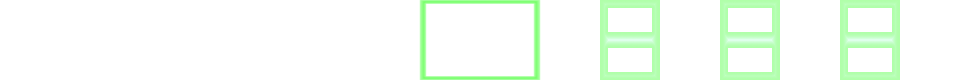
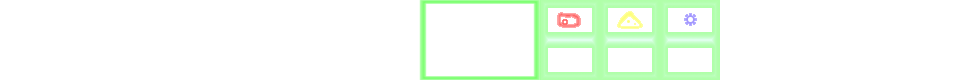
Explain towers.

Changed region(s): [[0.5625, 0.0, 0.8125, 1.0], [0.875, 0.0, 0.9375, 1.0]]

diff --git a/src/ten_seconds/ui/mod.rs b/src/ten_seconds/ui/mod.rs
@@ -60,7 +60,7 @@ pub fn init_ui(mut commands: Commands, windows: Res<Windows>, sprites: Res<Sprit
             text: Text::from_section(
                 "10",
                 TextStyle {
-                    color: Color::rgb(43. / 256., 100. / 256., 38. / 256.),
+                    color: Color::rgb(0.43, 1., 0.38),
                     font_size: 80.,
                     font: sprites.countdown_font.clone(),
                 },
@@ -99,7 +99,7 @@ pub fn init_ui(mut commands: Commands, windows: Res<Windows>, sprites: Res<Sprit
             text: Text::from_section(
                 "0",
                 TextStyle {
-                    color: Color::rgb(43. / 256., 100. / 256., 38. / 256.),
+                    color: Color::rgb(0.43, 1., 0.38),
                     font_size: 32.,
                     font: sprites.countdown_font.clone(),
                 },
@@ -118,8 +118,8 @@ pub fn init_ui(mut commands: Commands, windows: Res<Windows>, sprites: Res<Sprit
                 position_type: PositionType::Absolute,
                 justify_content: JustifyContent::Center,
                 position: UiRect::new(
-                    Val::Px(600.),
-                    Val::Px(300.),
+                    Val::Px(540.),
+                    Val::Px(360.),
                     Val::Px(0.),
                     Val::Px(height - 76.),
                 ),
@@ -138,7 +138,7 @@ pub fn init_ui(mut commands: Commands, windows: Res<Windows>, sprites: Res<Sprit
             text: Text::from_section(
                 "0",
                 TextStyle {
-                    color: Color::rgb(43. / 256., 100. / 256., 38. / 256.),
+                    color: Color::rgb(0.43, 1., 0.38),
                     font_size: 32.,
                     font: sprites.countdown_font.clone(),
                 },
@@ -157,8 +157,8 @@ pub fn init_ui(mut commands: Commands, windows: Res<Windows>, sprites: Res<Sprit
                 position_type: PositionType::Absolute,
                 justify_content: JustifyContent::Center,
                 position: UiRect::new(
-                    Val::Px(720.),
-                    Val::Px(180.),
+                    Val::Px(600.),
+                    Val::Px(300.),
                     Val::Px(0.),
                     Val::Px(height - 76.),
                 ),
@@ -177,7 +177,7 @@ pub fn init_ui(mut commands: Commands, windows: Res<Windows>, sprites: Res<Sprit
             text: Text::from_section(
                 "0",
                 TextStyle {
-                    color: Color::rgb(43. / 256., 100. / 256., 38. / 256.),
+                    color: Color::rgb(0.43, 1., 0.38),
                     font_size: 32.,
                     font: sprites.countdown_font.clone(),
                 },
@@ -196,8 +196,8 @@ pub fn init_ui(mut commands: Commands, windows: Res<Windows>, sprites: Res<Sprit
                 position_type: PositionType::Absolute,
                 justify_content: JustifyContent::Center,
                 position: UiRect::new(
-                    Val::Px(840.),
-                    Val::Px(60.),
+                    Val::Px(660.),
+                    Val::Px(240.),
                     Val::Px(0.),
                     Val::Px(height - 76.),
                 ),
@@ -209,6 +209,129 @@ pub fn init_ui(mut commands: Commands, windows: Res<Windows>, sprites: Res<Sprit
         .insert(Name::new("TechBox"))
         .insert(InGameOnly)
         .add_child(minerals);
+    // INFO
+    let mut transform = Transform::default();
+    transform.translation = Vec3::new(width - 240. + 16., height - 16., 0.);
+    commands
+        .spawn_bundle(SpriteSheetBundle {
+            transform,
+            texture_atlas: sprites.towers.clone(),
+            sprite: TextureAtlasSprite {
+                color: Color::rgb(0.43, 1., 0.38),
+                ..TextureAtlasSprite::new(TowerType::Attack.get_sprite_index())
+            },
+            ..Default::default()
+        })
+        .insert(Name::new("AttackHelper"));
+    let mut transform = Transform::default();
+    transform.translation = Vec3::new(width - 240. + 32. + 16., height - 16., 0.);
+    commands
+        .spawn_bundle(SpriteSheetBundle {
+            transform,
+            texture_atlas: sprites.towers.clone(),
+            sprite: TextureAtlasSprite::new(TowerType::Silo.get_sprite_index()),
+            ..Default::default()
+        })
+        .insert(Name::new("SiloHelper"));
+    let mut transform = Transform::default();
+    transform.translation = Vec3::new(width - 240. + 64. + 16., height - 16., 0.);
+    commands
+        .spawn_bundle(SpriteSheetBundle {
+            transform,
+            texture_atlas: sprites.towers.clone(),
+            sprite: TextureAtlasSprite::new(TowerType::Triple.get_sprite_index()),
+            ..Default::default()
+        })
+        .insert(Name::new("TripleHelper"));
+    let mut transform = Transform::default();
+    transform.translation = Vec3::new(width - 240. + 96. + 16., height - 16., 0.);
+    commands
+        .spawn_bundle(SpriteSheetBundle {
+            transform,
+            texture_atlas: sprites.towers.clone(),
+            sprite: TextureAtlasSprite::new(TowerType::BigBomb.get_sprite_index()),
+            ..Default::default()
+        })
+        .insert(Name::new("BigBombHelper"));
+    let info = commands
+        .spawn_bundle(TextBundle {
+            text: Text::from_sections(vec![
+                TextSection {
+                    value: "Num keys switch towers.\nAmmo: 5 - Costs: ".to_string(),
+                    style: TextStyle {
+                        color: Color::WHITE,
+                        font_size: 24.,
+                        font: sprites.countdown_font.clone(),
+                    },
+                },
+                TextSection {
+                    value: "2".to_string(),
+                    style: TextStyle {
+                        color: Color::rgb(1., 0.384, 0.384),
+                        font_size: 24.,
+                        font: sprites.countdown_font.clone(),
+                    },
+                },
+                TextSection {
+                    value: "/".to_string(),
+                    style: TextStyle {
+                        color: Color::WHITE,
+                        font_size: 24.,
+                        font: sprites.countdown_font.clone(),
+                    },
+                },
+                TextSection {
+                    value: "1".to_string(),
+                    style: TextStyle {
+                        color: Color::rgb(1., 1., 0.477),
+                        font_size: 24.,
+                        font: sprites.countdown_font.clone(),
+                    },
+                },
+                TextSection {
+                    value: "/".to_string(),
+                    style: TextStyle {
+                        color: Color::WHITE,
+                        font_size: 24.,
+                        font: sprites.countdown_font.clone(),
+                    },
+                },
+                TextSection {
+                    value: "0".to_string(),
+                    style: TextStyle {
+                        color: Color::rgb(0.635, 0.592, 1.),
+                        font_size: 24.,
+                        font: sprites.countdown_font.clone(),
+                    },
+                },
+            ]),
+            style: Style {
+                position_type: PositionType::Absolute,
+                ..Default::default()
+            },
+            ..Default::default()
+        })
+        .insert(Name::new("Info"))
+        .id();
+    commands
+        .spawn_bundle(NodeBundle {
+            style: Style {
+                position_type: PositionType::Absolute,
+                justify_content: JustifyContent::Center,
+                position: UiRect::new(
+                    Val::Px(720.),
+                    Val::Px(0.),
+                    Val::Px(0.),
+                    Val::Px(height - 76.),
+                ),
+                ..Default::default()
+            },
+            color: UiColor(Color::NONE),
+            ..Default::default()
+        })
+        .insert(Name::new("InfoBox"))
+        .insert(InGameOnly)
+        .add_child(info);
 }
 
 pub fn init_game_over(mut commands: Commands, wave_status: Res<WaveStatus>, sprites: Res<Sprites>) {
@@ -218,7 +341,7 @@ pub fn init_game_over(mut commands: Commands, wave_status: Res<WaveStatus>, spri
                 TextSection::new(
                     format!("You made it to wave {}!\n", wave_status.wave_id),
                     TextStyle {
-                        color: Color::rgb(43. / 256., 100. / 256., 38. / 256.),
+                        color: Color::rgb(0.43, 1., 0.38),
                         font_size: 32.,
                         font: sprites.countdown_font.clone(),
                     },
@@ -226,7 +349,7 @@ pub fn init_game_over(mut commands: Commands, wave_status: Res<WaveStatus>, spri
                 TextSection::new(
                     format!("Press any key to play again."),
                     TextStyle {
-                        color: Color::rgb(43. / 256., 100. / 256., 38. / 256.),
+                        color: Color::rgb(0.43, 1., 0.38),
                         font_size: 32.,
                         font: sprites.countdown_font.clone(),
                     },

diff --git a/src/ten_seconds/towers/management.rs b/src/ten_seconds/towers/management.rs
@@ -2,7 +2,64 @@ use crate::{prelude::*, ten_seconds::field::FieldLocationContents};
 
 use super::spawn_tower;
 
-pub fn switch_tower_types(mut wave_status: ResMut<WaveStatus>, input: Res<Input<KeyCode>>) {
+fn set_helper_text(tower_type: TowerType, mut helper_text_query: Query<(&mut Text, &Name)>) {
+    let flavor = match tower_type {
+        TowerType::Attack => "Simple gun tower.",
+        TowerType::Silo => "Resupplies neighbors.",
+        TowerType::Burst => "Fires in four directions.",
+        TowerType::Triple => "Fires 3-shot bursts.",
+        TowerType::BigBomb => "Fires really big shots.",
+    };
+    let value = format!(
+        "{}\nAmmo: {} - Costs: ",
+        flavor,
+        tower_type.get_cooldowns().ammo_left
+    );
+    for (mut text, name) in helper_text_query.iter_mut() {
+        if name.eq_ignore_ascii_case("Info") {
+            text.sections[0].value = value;
+            text.sections[1].value = format!("{}", tower_type.get_mineral_cost());
+            text.sections[3].value = format!("{}", tower_type.get_dust_cost());
+            text.sections[5].value = format!("{}", tower_type.get_tech_cost());
+            return;
+        }
+    }
+}
+
+fn highlight_icon(
+    old_tower_type: TowerType,
+    tower_type: TowerType,
+    mut icon_query: Query<(&mut TextureAtlasSprite, &Name)>,
+) {
+    let tower_helper_name = get_helper_name(tower_type);
+    let old_tower_helper_name = get_helper_name(old_tower_type);
+    for (mut sprite, name) in icon_query.iter_mut() {
+        if name.eq_ignore_ascii_case(tower_helper_name) {
+            sprite.color = Color::rgb(0.435, 1., 0.384);
+        } else if name.eq_ignore_ascii_case(old_tower_helper_name) {
+            sprite.color = Color::WHITE;
+        }
+    }
+}
+
+fn get_helper_name(tower_type: TowerType) -> &'static str {
+    let tower_helper_name = match tower_type {
+        TowerType::Attack => "AttackHelper",
+        TowerType::Silo => "SiloHelper",
+        TowerType::Burst => "BurstHelper",
+        TowerType::Triple => "TripleHelper",
+        TowerType::BigBomb => "BigBombHelper",
+    };
+    tower_helper_name
+}
+
+pub fn switch_tower_types(
+    mut wave_status: ResMut<WaveStatus>,
+    input: Res<Input<KeyCode>>,
+    helper_text_query: Query<(&mut Text, &Name)>,
+    icon_query: Query<(&mut TextureAtlasSprite, &Name)>,
+) {
+    let old_tower_type = wave_status.tower_type;
     if input.just_pressed(KeyCode::Key1) {
         wave_status.tower_type = TowerType::Attack;
     } else if input.just_pressed(KeyCode::Key2) {
@@ -11,7 +68,11 @@ pub fn switch_tower_types(mut wave_status: ResMut<WaveStatus>, input: Res<Input<
         wave_status.tower_type = TowerType::Triple;
     } else if input.just_pressed(KeyCode::Key4) {
         wave_status.tower_type = TowerType::BigBomb;
+    } else {
+        return;
     }
+    set_helper_text(wave_status.tower_type, helper_text_query);
+    highlight_icon(old_tower_type, wave_status.tower_type, icon_query);
 }
 
 pub fn manage_towers(

diff --git a/src/ten_seconds/enemies/waves.rs b/src/ten_seconds/enemies/waves.rs
@@ -45,7 +45,11 @@ impl WaveStatus {
     }
 
     fn get_sting(&self) -> &'static str {
-        match self.wave_id {
+        self.get_sting_for(self.wave_id)
+    }
+
+    fn get_sting_for(&self, wave_id: i32) -> &'static str {
+        match wave_id {
             1 | 2 => "stings/ChoirSaprano.ogg",
             3 => "stings/ChoirSapranoEb.ogg",
 
@@ -73,13 +77,10 @@ impl WaveStatus {
             25 | 26 => "stings/SquareWave.ogg",
             27 => "stings/SquareWaveEb.ogg",
 
-            id => {
-                if id % 3 == 0 {
-                    "stings/TinyRobotEb.ogg"
-                } else {
-                    "stings/TinyRobot.ogg"
-                }
-            }
+            28 | 29 => "stings/SquareWave.ogg",
+            30 => "stings/SquareWaveEb.ogg",
+
+            id => self.get_sting_for(id - 30),
         }
     }
 

diff --git a/src/ten_seconds/towers/mod.rs b/src/ten_seconds/towers/mod.rs
@@ -79,7 +79,7 @@ impl TowerType {
                     name: "Bomb".to_string(),
                     bullet_type: BulletType::Basic {
                         sprite_index: 1,
-                        damage: 5,
+                        damage: 10,
                     },
                     fired: false,
                     speed: 256.,
@@ -104,7 +104,7 @@ impl TowerType {
             Self::Attack | Self::Burst => 5,
             Self::Silo => 10,
             Self::Triple => 9,
-            Self::BigBomb => 3,
+            Self::BigBomb => 1,
         };
         TowerCooldowns {
             time_since_shot: 0.,
@@ -113,7 +113,7 @@ impl TowerType {
         }
     }
 
-    fn get_sprite_index(&self) -> usize {
+    pub fn get_sprite_index(&self) -> usize {
         match self {
             Self::Attack => 0,
             Self::Silo => 8,

diff --git a/src/ten_seconds/towers/ai.rs b/src/ten_seconds/towers/ai.rs
@@ -66,14 +66,7 @@ pub fn think_for_towers(
                 neighbor_towers: get_neighbor_towers(&field, tile),
             };
             let mut new_impulses = TowerImpulses::default();
-            let mut audit = BehaviorTreeAudit::default();
-            let result = behavior_tree.resume_with(
-                &model,
-                &mut new_impulses,
-                &mut None,
-                &mut Some(&mut audit),
-            );
-            println!("{:?}: {:?}", result, audit);
+            behavior_tree.resume_with(&model, &mut new_impulses, &mut None, &mut None);
             *impulses = new_impulses;
         }
     }
